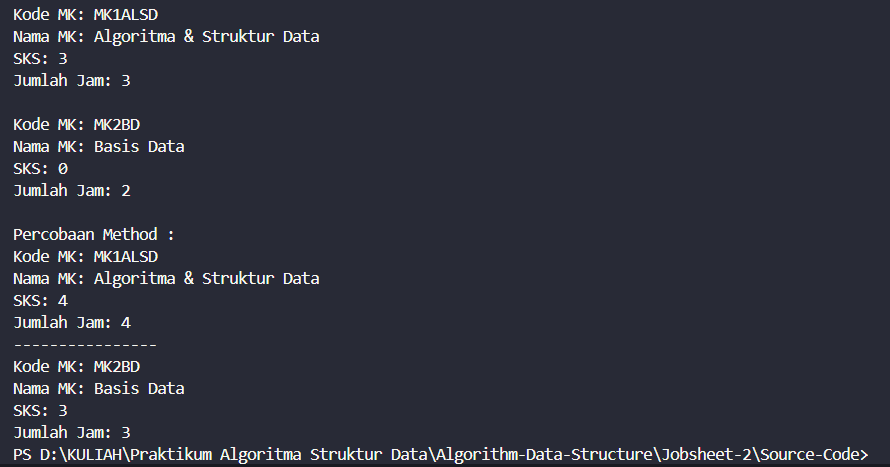
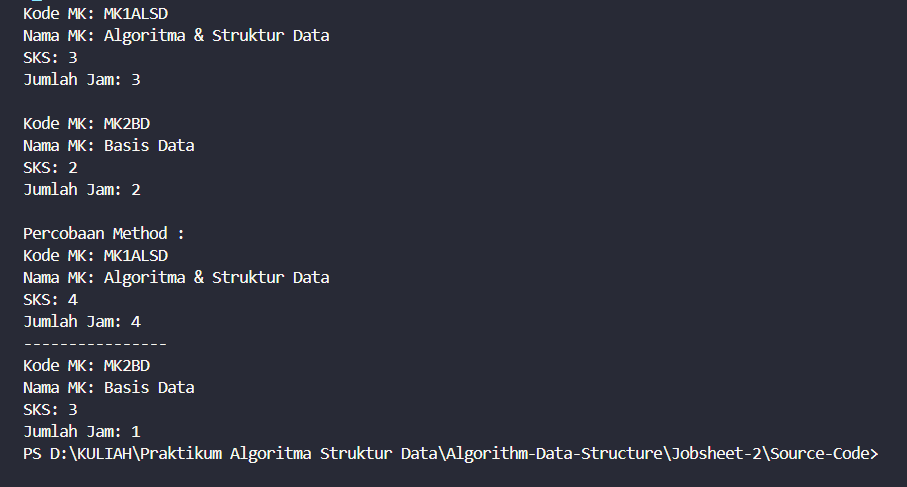
fix erorr

Changed region(s): [[0.0, 0.4497, 0.9708, 0.9893], [0.0, 0.0, 0.364, 0.2099], [0.0, 0.2398, 0.2124, 0.4197]]

diff --git a/Jobsheet-2/Source-Code/MataKuliahMain17.java b/Jobsheet-2/Source-Code/MataKuliahMain17.java
@@ -6,21 +6,21 @@ public class MataKuliahMain17 {
         mk1.sks = 3;
         mk1.jumlahJam = 3;
 
-        mk1.tammpilInformasi();
+        mk1.tampilInformasi();
         System.out.println();
 
         MataKuliah17 mk2 = new MataKuliah17("MK2BD", "Basis Data", 2, 2);
-        mk2.tammpilInformasi();
+        mk2.tampilInformasi();
 
         System.out.println("\nPercobaan Method :");
         mk1.ubahSKS(4);
         mk1.tambahJam(1);
-        mk1.tammpilInformasi();
+        mk1.tampilInformasi();
 
         System.out.println("----------------");
 
         mk2.ubahSKS(3);
-        mk2.tambahJam(1);
-        mk2.tammpilInformasi();
+        mk2.kurangiJam(1);
+        mk2.tampilInformasi();
     }
 }

diff --git a/Jobsheet-2/Source-Code/MataKuliah17.java b/Jobsheet-2/Source-Code/MataKuliah17.java
@@ -10,11 +10,11 @@ public class MataKuliah17 {
     MataKuliah17(String kodemk, String nm, int sks, int jam){
         KodeMK = kodemk;
         nama = nm;
-        sks = sks;
+        this.sks = sks;
         jumlahJam = jam;
     }
 
-    void tammpilInformasi(){
+    void tampilInformasi(){
         System.out.println("Kode MK: " + KodeMK);
         System.out.println("Nama MK: " + nama);
         System.out.println("SKS: " + sks);
